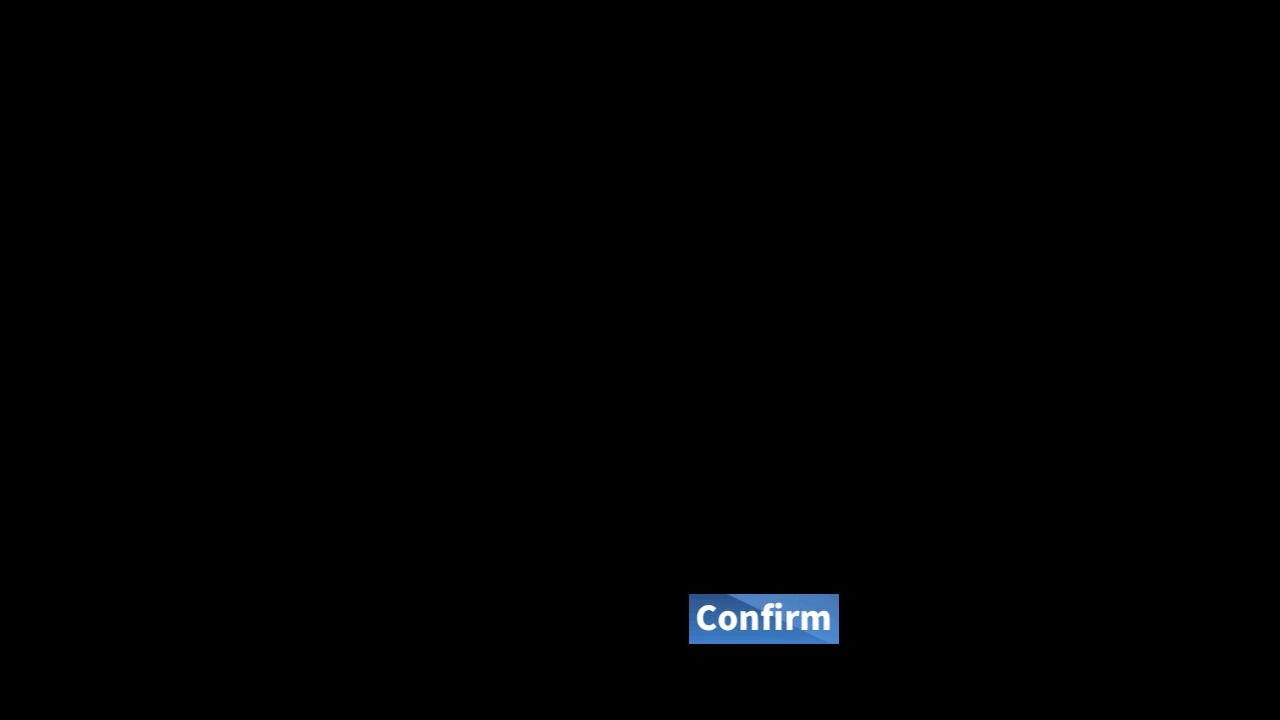
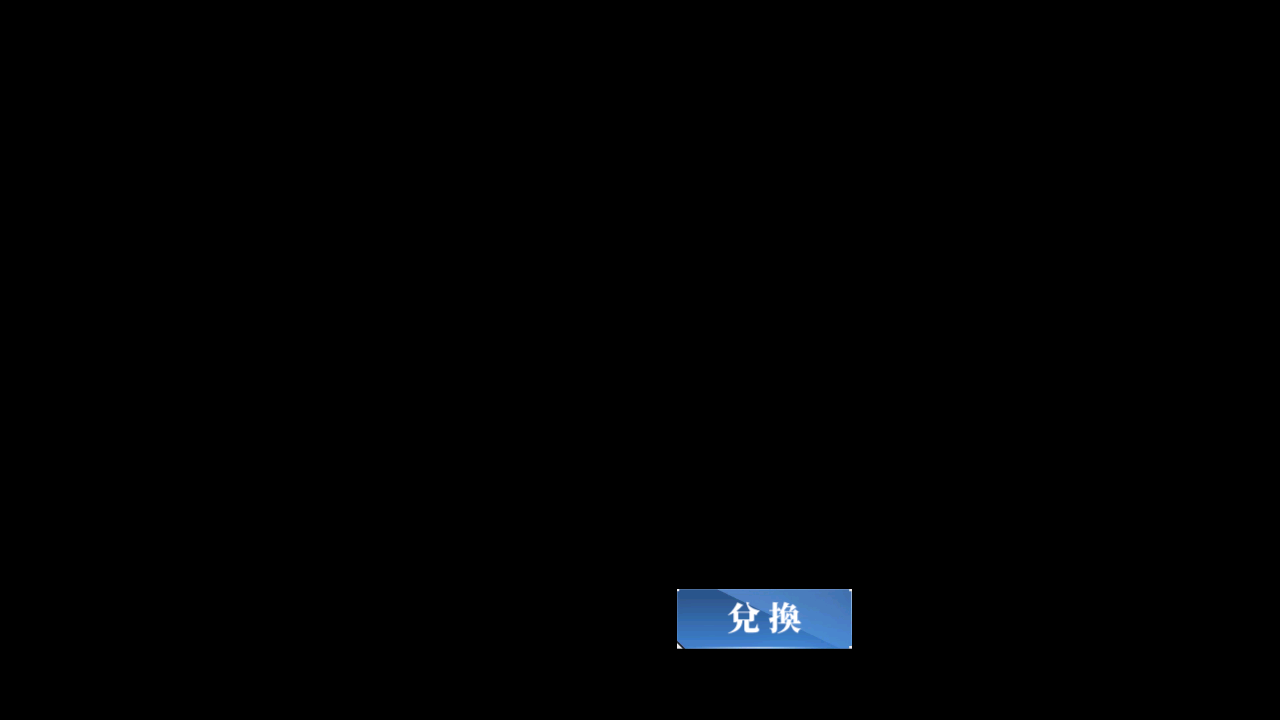
Upd: [TW] assets TACTICAL_CLASS_START and SHOP_BUY_CONFIRM_AMOUNT

Changed region(s): [[0.5312, 0.7944, 0.6875, 0.9167]]

diff --git a/module/shop/assets.py b/module/shop/assets.py
@@ -11,7 +11,7 @@ SELECT_MINUS = Button(area={'cn': (562, 201, 588, 227), 'en': (562, 201, 588, 22
 SELECT_PLUS = Button(area={'cn': (674, 201, 700, 227), 'en': (674, 201, 700, 227), 'jp': (674, 201, 700, 227), 'tw': (674, 201, 700, 227)}, color={'cn': (97, 70, 70), 'en': (97, 70, 70), 'jp': (97, 70, 70), 'tw': (97, 70, 70)}, button={'cn': (674, 201, 700, 227), 'en': (674, 201, 700, 227), 'jp': (674, 201, 700, 227), 'tw': (674, 201, 700, 227)}, file={'cn': './assets/cn/shop/SELECT_PLUS.png', 'en': './assets/en/shop/SELECT_PLUS.png', 'jp': './assets/jp/shop/SELECT_PLUS.png', 'tw': './assets/tw/shop/SELECT_PLUS.png'})
 SHOP_AMOUNT = Button(area={'cn': (600, 310, 680, 340), 'en': (600, 310, 680, 340), 'jp': (600, 310, 680, 340), 'tw': (600, 310, 680, 340)}, color={'cn': (48, 52, 62), 'en': (48, 52, 62), 'jp': (48, 52, 62), 'tw': (48, 52, 62)}, button={'cn': (600, 310, 680, 340), 'en': (600, 310, 680, 340), 'jp': (600, 310, 680, 340), 'tw': (600, 310, 680, 340)}, file={'cn': './assets/cn/shop/SHOP_AMOUNT.png', 'en': './assets/en/shop/SHOP_AMOUNT.png', 'jp': './assets/jp/shop/SHOP_AMOUNT.png', 'tw': './assets/tw/shop/SHOP_AMOUNT.png'})
 SHOP_BUY_CONFIRM = Button(area={'cn': (703, 483, 876, 540), 'en': (714, 496, 864, 521), 'jp': (720, 494, 862, 531), 'tw': (706, 485, 875, 537)}, color={'cn': (94, 142, 203), 'en': (130, 166, 212), 'jp': (100, 147, 205), 'tw': (95, 143, 203)}, button={'cn': (703, 483, 876, 540), 'en': (714, 496, 864, 521), 'jp': (720, 494, 862, 531), 'tw': (706, 485, 875, 537)}, file={'cn': './assets/cn/shop/SHOP_BUY_CONFIRM.png', 'en': './assets/en/shop/SHOP_BUY_CONFIRM.png', 'jp': './assets/jp/shop/SHOP_BUY_CONFIRM.png', 'tw': './assets/tw/shop/SHOP_BUY_CONFIRM.png'})
-SHOP_BUY_CONFIRM_AMOUNT = Button(area={'cn': (678, 590, 851, 647), 'en': (689, 594, 839, 644), 'jp': (694, 596, 832, 640), 'tw': (689, 594, 839, 644)}, color={'cn': (81, 130, 190), 'en': (100, 143, 198), 'jp': (84, 132, 191), 'tw': (103, 146, 197)}, button={'cn': (678, 590, 851, 647), 'en': (689, 594, 839, 644), 'jp': (694, 596, 832, 640), 'tw': (689, 594, 839, 644)}, file={'cn': './assets/cn/shop/SHOP_BUY_CONFIRM_AMOUNT.png', 'en': './assets/en/shop/SHOP_BUY_CONFIRM_AMOUNT.png', 'jp': './assets/jp/shop/SHOP_BUY_CONFIRM_AMOUNT.png', 'tw': './assets/tw/shop/SHOP_BUY_CONFIRM_AMOUNT.png'})
+SHOP_BUY_CONFIRM_AMOUNT = Button(area={'cn': (678, 590, 851, 647), 'en': (689, 594, 839, 644), 'jp': (694, 596, 832, 640), 'tw': (677, 589, 852, 649)}, color={'cn': (81, 130, 190), 'en': (100, 143, 198), 'jp': (84, 132, 191), 'tw': (82, 131, 191)}, button={'cn': (678, 590, 851, 647), 'en': (689, 594, 839, 644), 'jp': (694, 596, 832, 640), 'tw': (677, 589, 852, 649)}, file={'cn': './assets/cn/shop/SHOP_BUY_CONFIRM_AMOUNT.png', 'en': './assets/en/shop/SHOP_BUY_CONFIRM_AMOUNT.png', 'jp': './assets/jp/shop/SHOP_BUY_CONFIRM_AMOUNT.png', 'tw': './assets/tw/shop/SHOP_BUY_CONFIRM_AMOUNT.png'})
 SHOP_BUY_CONFIRM_MISTAKE = Button(area={'cn': (590, 300, 612, 318), 'en': (590, 300, 612, 318), 'jp': (590, 300, 612, 318), 'tw': (590, 300, 612, 318)}, color={'cn': (154, 79, 103), 'en': (154, 79, 103), 'jp': (154, 79, 103), 'tw': (154, 79, 103)}, button={'cn': (590, 300, 612, 318), 'en': (590, 300, 612, 318), 'jp': (590, 300, 612, 318), 'tw': (590, 300, 612, 318)}, file={'cn': './assets/cn/shop/SHOP_BUY_CONFIRM_MISTAKE.png', 'en': './assets/en/shop/SHOP_BUY_CONFIRM_MISTAKE.png', 'jp': './assets/jp/shop/SHOP_BUY_CONFIRM_MISTAKE.png', 'tw': './assets/tw/shop/SHOP_BUY_CONFIRM_MISTAKE.png'})
 SHOP_BUY_CONFIRM_SELECT = Button(area={'cn': (554, 626, 726, 683), 'en': (562, 632, 717, 677), 'jp': (588, 638, 689, 669), 'tw': (558, 627, 725, 680)}, color={'cn': (225, 155, 61), 'en': (228, 165, 80), 'jp': (230, 170, 89), 'tw': (225, 155, 60)}, button={'cn': (554, 626, 726, 683), 'en': (562, 632, 717, 677), 'jp': (588, 638, 689, 669), 'tw': (558, 627, 725, 680)}, file={'cn': './assets/cn/shop/SHOP_BUY_CONFIRM_SELECT.png', 'en': './assets/en/shop/SHOP_BUY_CONFIRM_SELECT.png', 'jp': './assets/jp/shop/SHOP_BUY_CONFIRM_SELECT.png', 'tw': './assets/tw/shop/SHOP_BUY_CONFIRM_SELECT.png'})
 SHOP_CLICK_SAFE_AREA = Button(area={'cn': (108, 108, 143, 233), 'en': (108, 108, 143, 233), 'jp': (108, 108, 143, 233), 'tw': (108, 108, 143, 233)}, color={'cn': (50, 57, 76), 'en': (50, 57, 76), 'jp': (50, 57, 76), 'tw': (50, 57, 76)}, button={'cn': (108, 108, 143, 233), 'en': (108, 108, 143, 233), 'jp': (108, 108, 143, 233), 'tw': (108, 108, 143, 233)}, file={'cn': './assets/cn/shop/SHOP_CLICK_SAFE_AREA.png', 'en': './assets/en/shop/SHOP_CLICK_SAFE_AREA.png', 'jp': './assets/jp/shop/SHOP_CLICK_SAFE_AREA.png', 'tw': './assets/tw/shop/SHOP_CLICK_SAFE_AREA.png'})

diff --git a/module/tactical/assets.py b/module/tactical/assets.py
@@ -7,4 +7,4 @@ from module.base.template import Template
 OCR_SKILL_EXP = Button(area={'cn': (821, 191, 951, 209), 'en': (821, 191, 951, 209), 'jp': (821, 191, 951, 209), 'tw': (821, 191, 951, 209)}, color={'cn': (76, 85, 83), 'en': (76, 85, 83), 'jp': (76, 85, 83), 'tw': (76, 85, 83)}, button={'cn': (821, 191, 951, 209), 'en': (821, 191, 951, 209), 'jp': (821, 191, 951, 209), 'tw': (821, 191, 951, 209)}, file={'cn': './assets/cn/tactical/OCR_SKILL_EXP.png', 'en': './assets/en/tactical/OCR_SKILL_EXP.png', 'jp': './assets/jp/tactical/OCR_SKILL_EXP.png', 'tw': './assets/tw/tactical/OCR_SKILL_EXP.png'})
 REWARD_2 = Button(area={'cn': (383, 404, 503, 444), 'en': (385, 407, 500, 437), 'jp': (383, 404, 503, 444), 'tw': (383, 404, 503, 444)}, color={'cn': (233, 165, 67), 'en': (236, 174, 86), 'jp': (228, 161, 61), 'tw': (233, 165, 67)}, button={'cn': (383, 404, 503, 444), 'en': (385, 407, 500, 437), 'jp': (383, 404, 503, 444), 'tw': (383, 404, 503, 444)}, file={'cn': './assets/cn/tactical/REWARD_2.png', 'en': './assets/en/tactical/REWARD_2.png', 'jp': './assets/jp/tactical/REWARD_2.png', 'tw': './assets/tw/tactical/REWARD_2.png'})
 TACTICAL_CLASS_CANCEL = Button(area={'cn': (818, 591, 990, 647), 'en': (827, 596, 977, 641), 'jp': (817, 590, 991, 648), 'tw': (816, 589, 992, 649)}, color={'cn': (153, 154, 154), 'en': (159, 159, 161), 'jp': (157, 157, 158), 'tw': (154, 154, 156)}, button={'cn': (818, 591, 990, 647), 'en': (827, 596, 977, 641), 'jp': (817, 590, 991, 648), 'tw': (816, 589, 992, 649)}, file={'cn': './assets/cn/tactical/TACTICAL_CLASS_CANCEL.png', 'en': './assets/en/tactical/TACTICAL_CLASS_CANCEL.png', 'jp': './assets/jp/tactical/TACTICAL_CLASS_CANCEL.png', 'tw': './assets/tw/tactical/TACTICAL_CLASS_CANCEL.png'})
-TACTICAL_CLASS_START = Button(area={'cn': (1024, 590, 1197, 648), 'en': (1040, 597, 1190, 642), 'jp': (1024, 590, 1197, 647), 'tw': (1022, 588, 1198, 648)}, color={'cn': (96, 139, 194), 'en': (85, 132, 190), 'jp': (92, 136, 190), 'tw': (98, 139, 191)}, button={'cn': (1024, 590, 1197, 648), 'en': (1040, 597, 1190, 642), 'jp': (1024, 590, 1197, 647), 'tw': (1022, 588, 1198, 648)}, file={'cn': './assets/cn/tactical/TACTICAL_CLASS_START.png', 'en': './assets/en/tactical/TACTICAL_CLASS_START.png', 'jp': './assets/jp/tactical/TACTICAL_CLASS_START.png', 'tw': './assets/tw/tactical/TACTICAL_CLASS_START.png'})
+TACTICAL_CLASS_START = Button(area={'cn': (1024, 590, 1197, 648), 'en': (1040, 597, 1190, 642), 'jp': (1024, 590, 1197, 647), 'tw': (1023, 589, 1199, 649)}, color={'cn': (96, 139, 194), 'en': (85, 132, 190), 'jp': (92, 136, 190), 'tw': (102, 143, 196)}, button={'cn': (1024, 590, 1197, 648), 'en': (1040, 597, 1190, 642), 'jp': (1024, 590, 1197, 647), 'tw': (1023, 589, 1199, 649)}, file={'cn': './assets/cn/tactical/TACTICAL_CLASS_START.png', 'en': './assets/en/tactical/TACTICAL_CLASS_START.png', 'jp': './assets/jp/tactical/TACTICAL_CLASS_START.png', 'tw': './assets/tw/tactical/TACTICAL_CLASS_START.png'})
